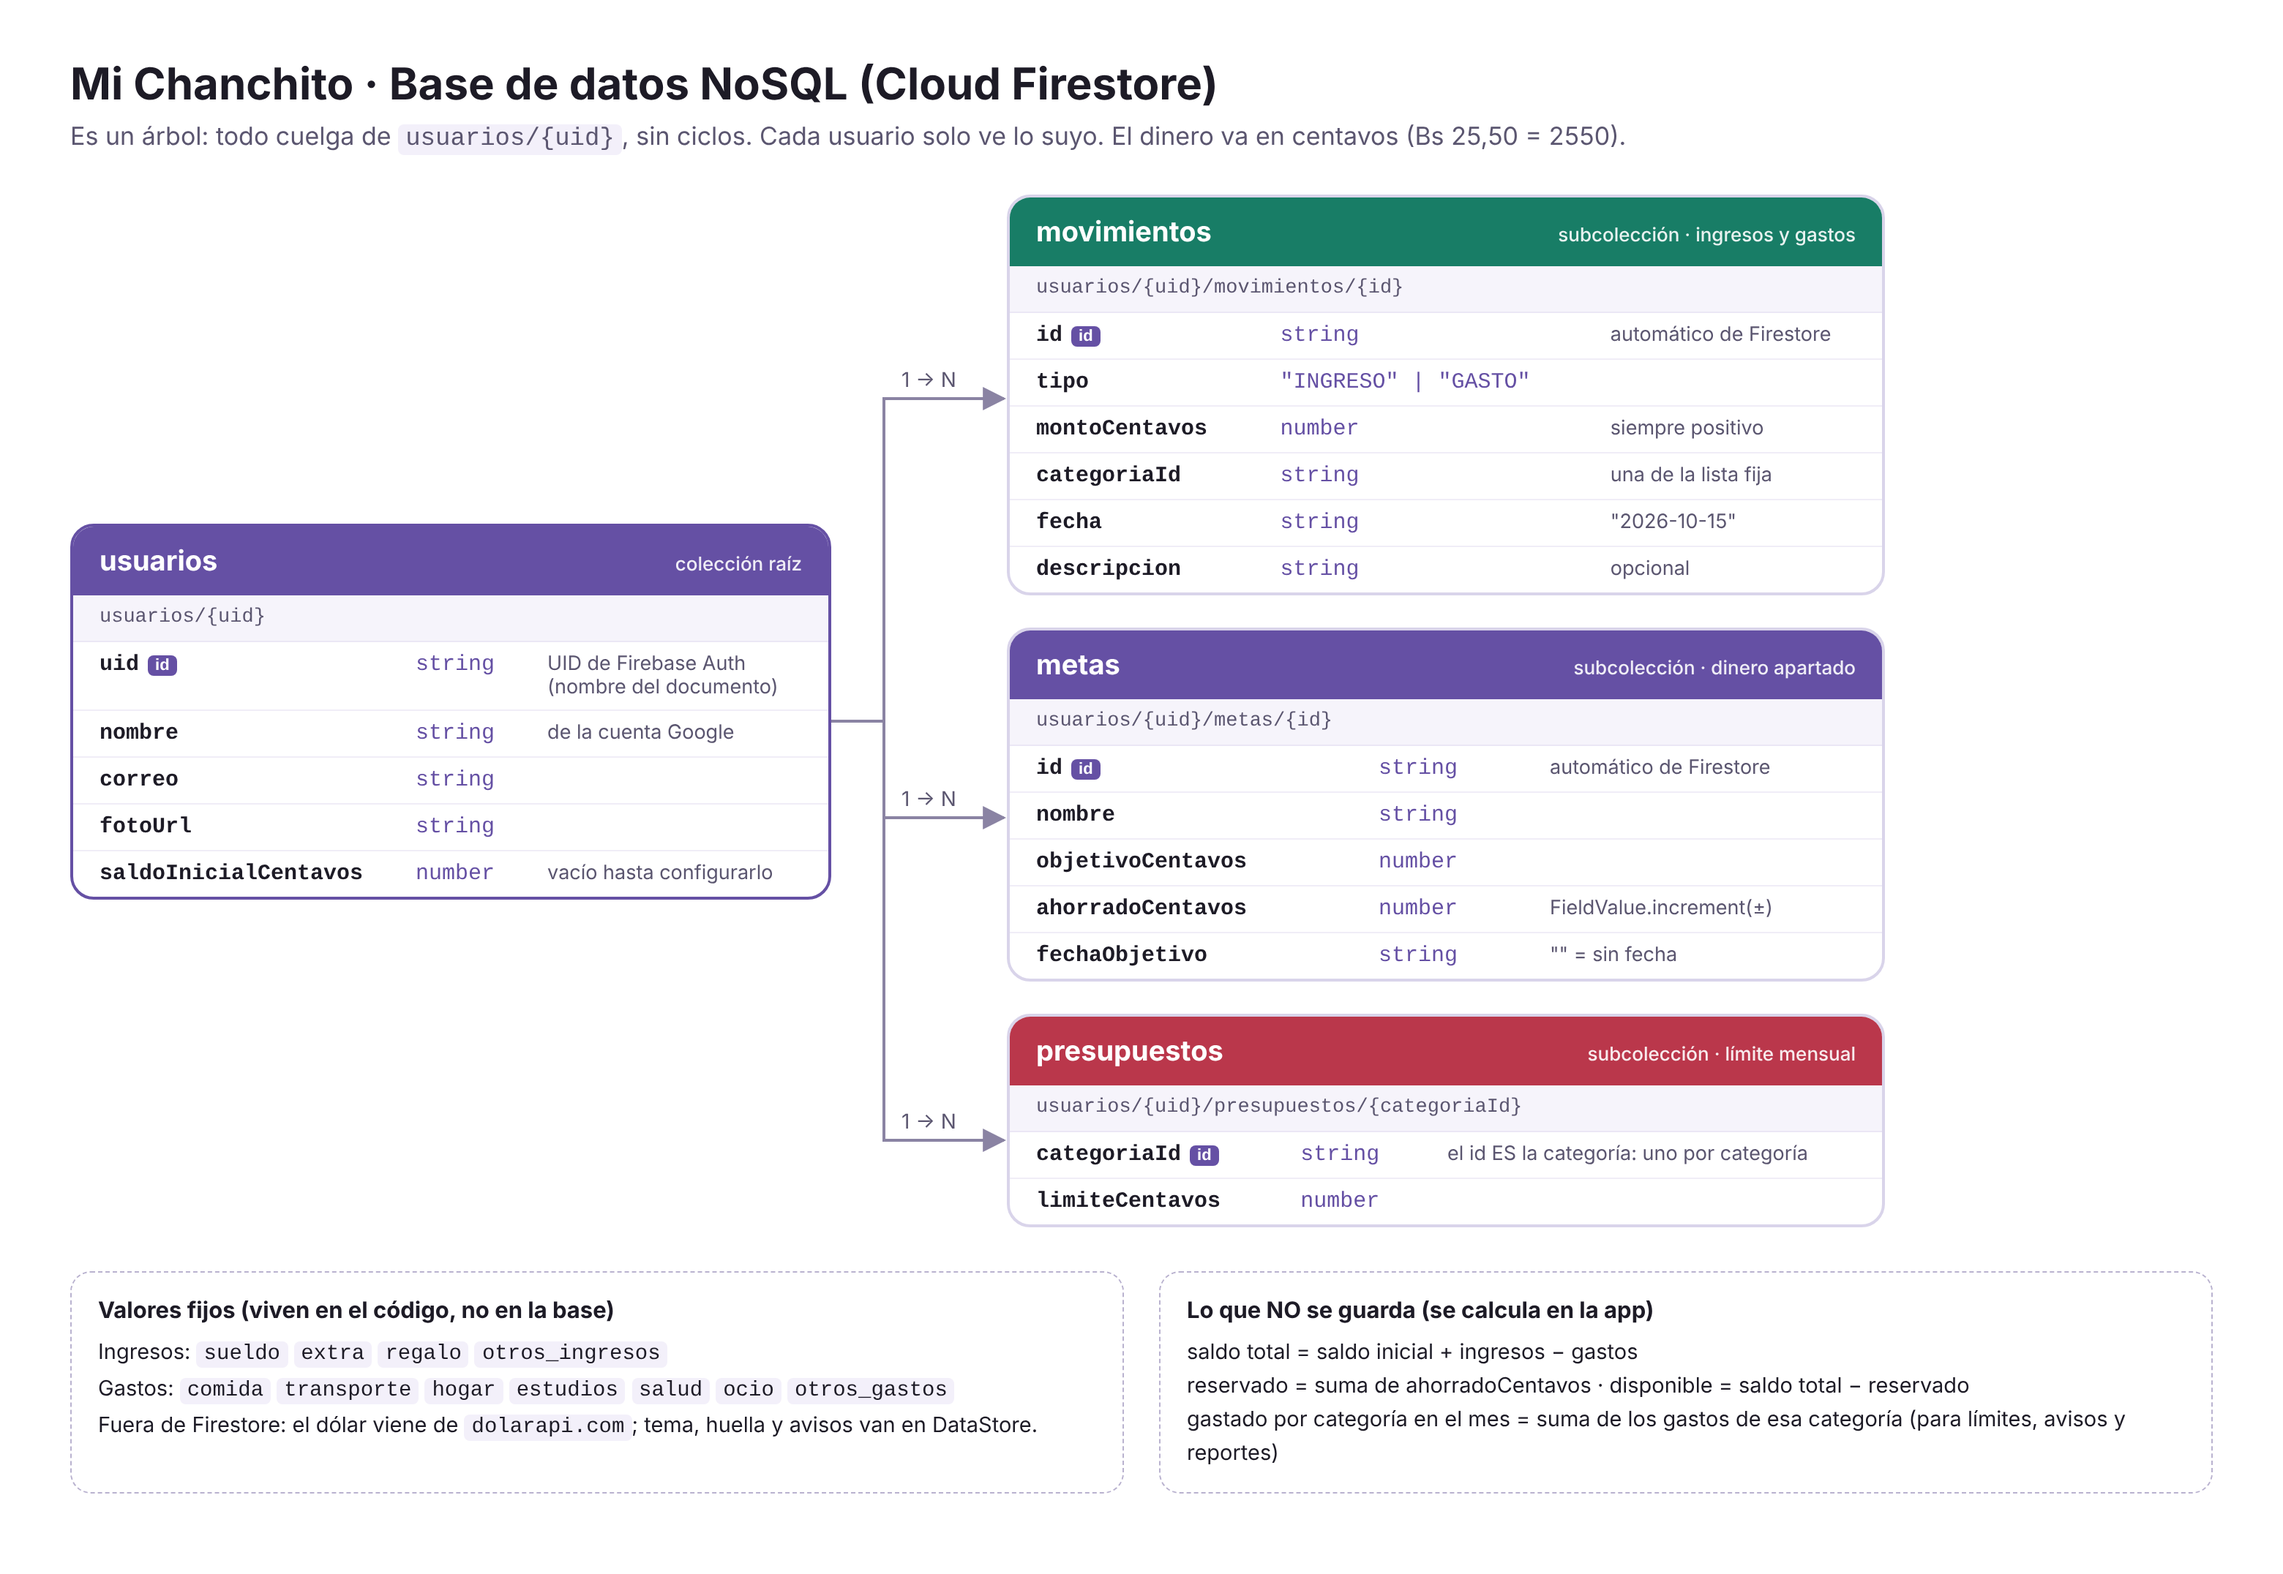
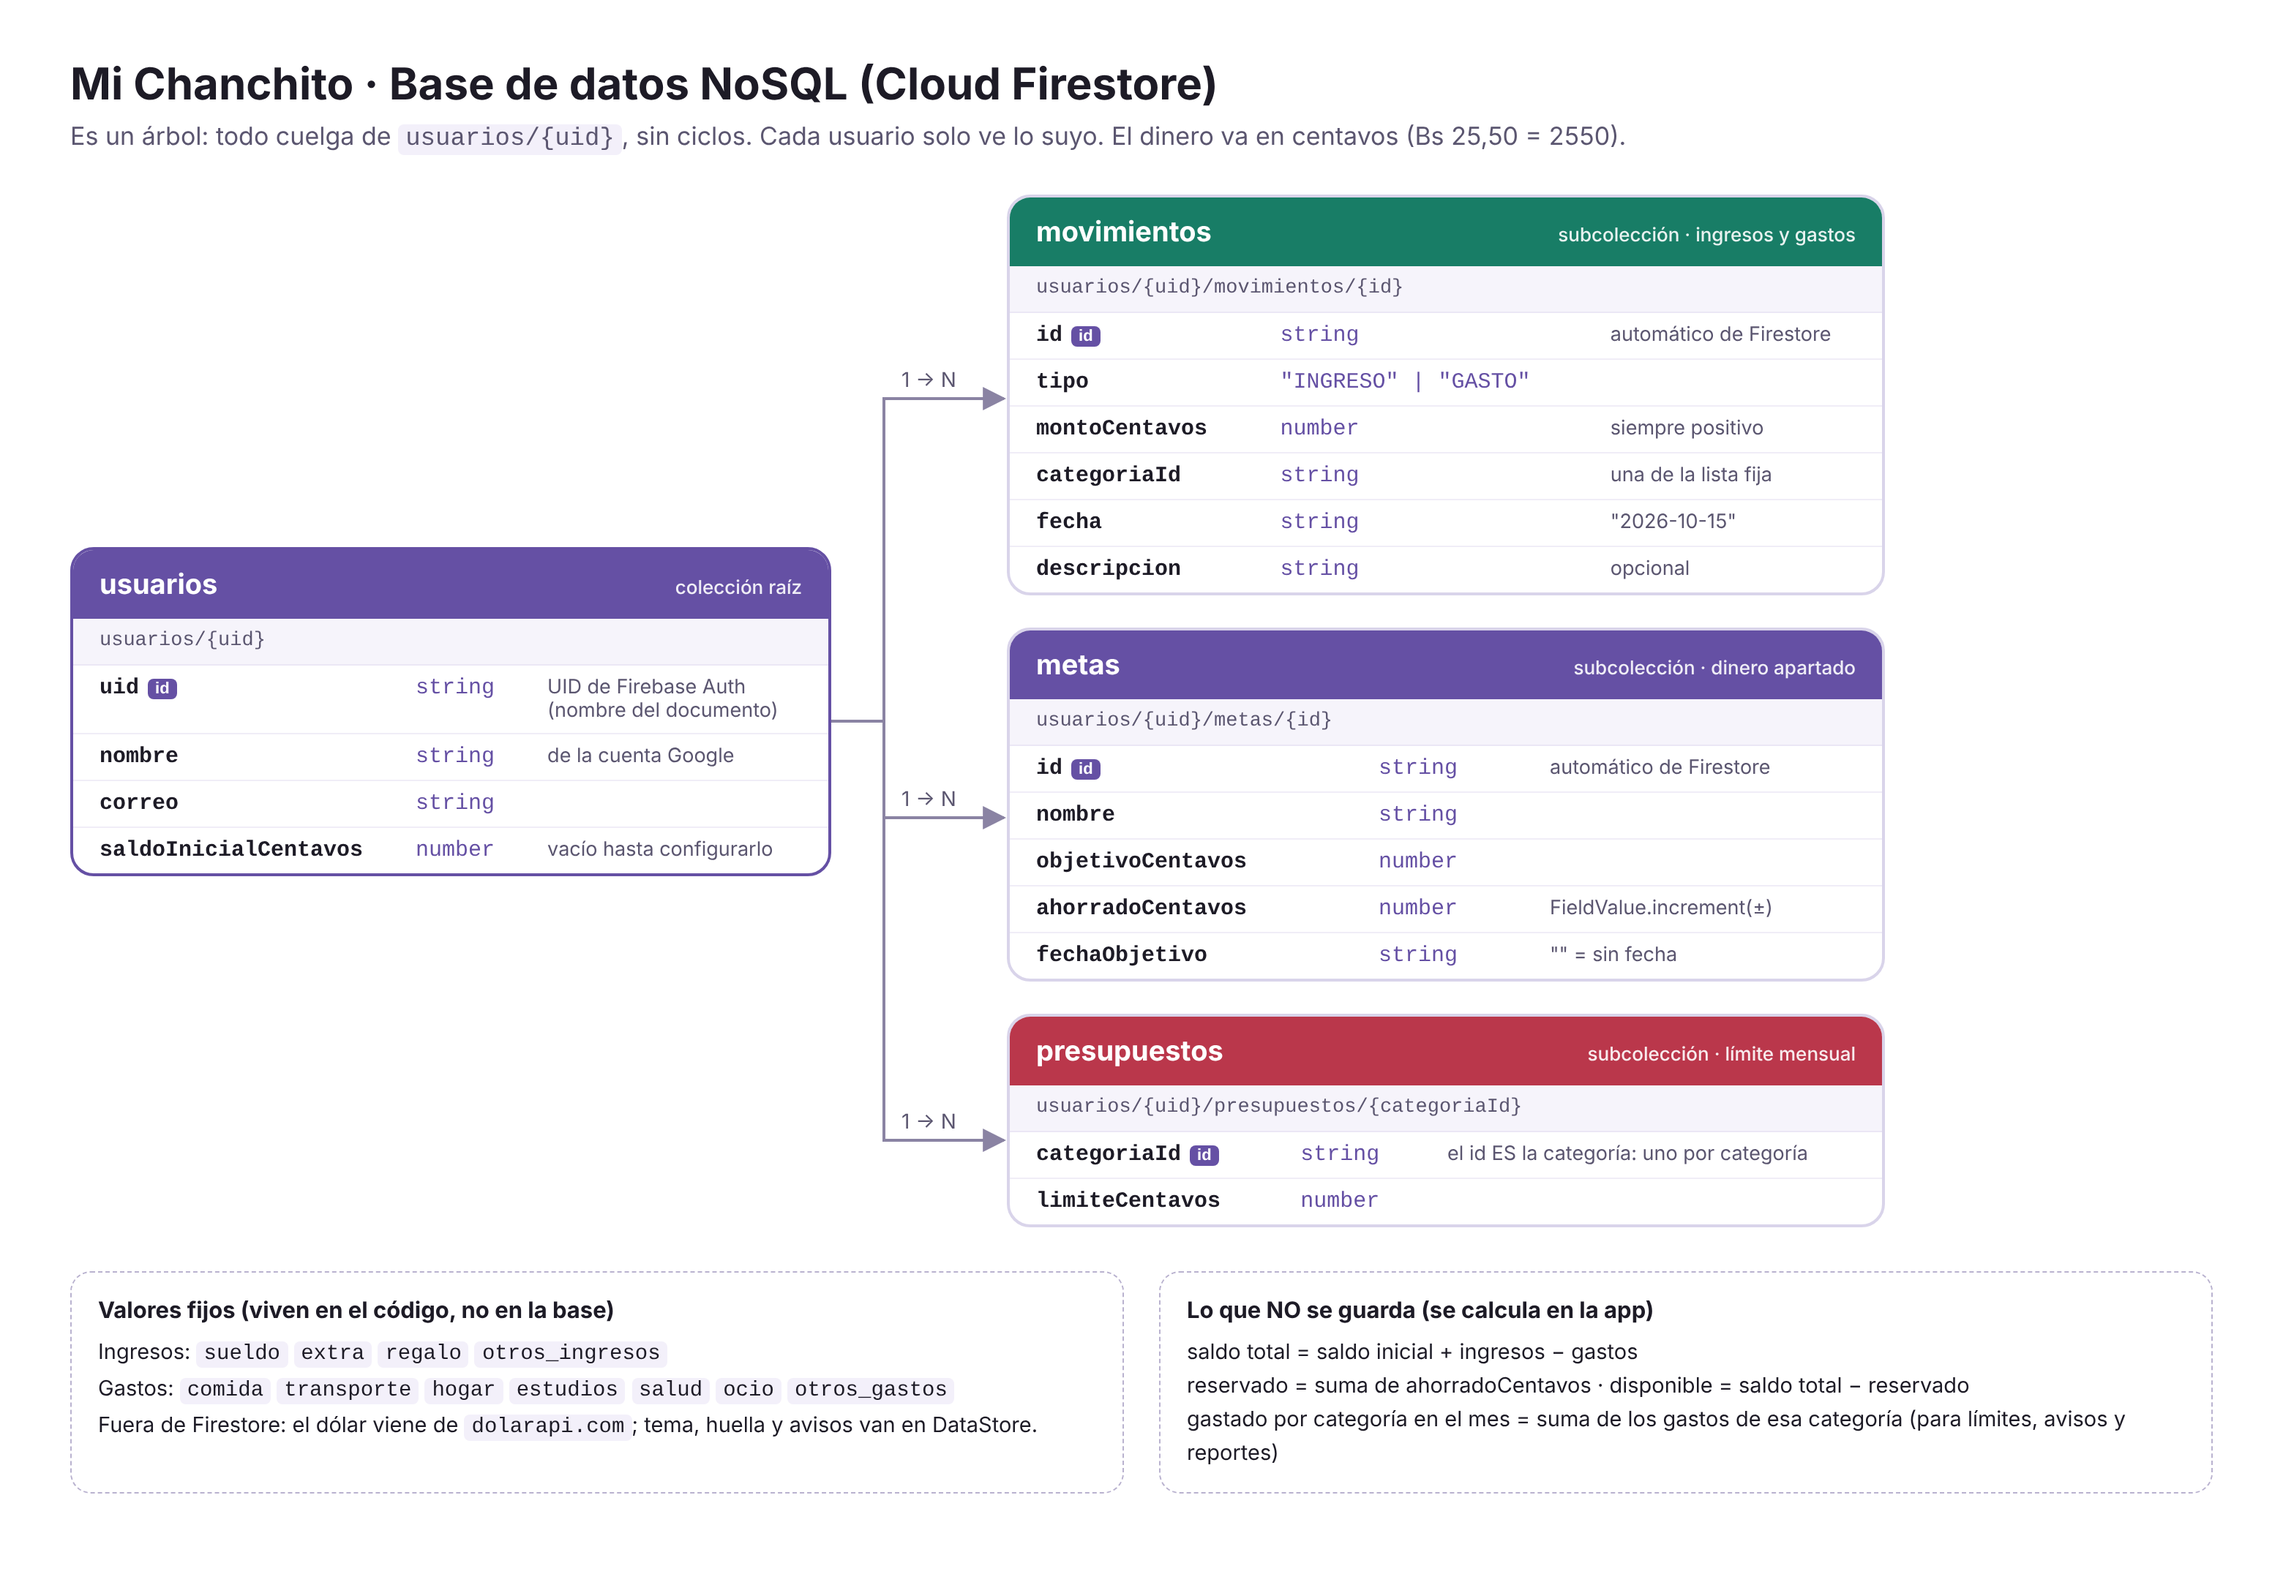
Simplificar modelos y limpiar dependencias sin uso
Elimina campos no usados (fotoUrl, nombre de cotizacion, urgente) y
dependencias de Compose tooling/lifecycle-runtime-ktx que no se usaban.

Changed region(s): [[0.0311, 0.3113, 0.3731, 0.5604]]

diff --git a/app/src/main/java/com/example/michanchito/domain/usecase/Avisos.kt b/app/src/main/java/com/example/michanchito/domain/usecase/Avisos.kt
@@ -7,11 +7,10 @@ import com.example.michanchito.domain.model.Presupuesto
 import java.time.LocalDate
 import java.time.YearMonth
 
-/** Un aviso: el título va en negrita (y como título de la notificación), el texto debajo. */
+/** Un aviso: el título (también es el título de la notificación) y el texto debajo. */
 data class Aviso(
     val titulo: String,
-    val texto: String,
-    val urgente: Boolean      // rojo en Inicio; en notificaciones no cambia nada
+    val texto: String
 )
 
 /*
@@ -38,13 +37,11 @@ object Avisos {
             when {
                 gastado >= limite.limiteCentavos -> Aviso(
                     titulo = "Te pasaste del límite de $nombre.",
-                    texto = "Llevas ${Dinero.formatear(gastado)} de ${Dinero.formatear(limite.limiteCentavos)}. $cierre",
-                    urgente = true
+                    texto = "Llevas ${Dinero.formatear(gastado)} de ${Dinero.formatear(limite.limiteCentavos)}. $cierre"
                 )
                 gastado * 100 >= limite.limiteCentavos * 80 -> Aviso(
                     titulo = "Ya usaste más del 80 % del límite de $nombre.",
-                    texto = "Te quedan ${Dinero.formatear(limite.limiteCentavos - gastado)}. $cierre",
-                    urgente = true
+                    texto = "Te quedan ${Dinero.formatear(limite.limiteCentavos - gastado)}. $cierre"
                 )
                 else -> null
             }

diff --git a/app/src/main/java/com/example/michanchito/data/api/DolarApi.kt b/app/src/main/java/com/example/michanchito/data/api/DolarApi.kt
@@ -22,9 +22,9 @@ import kotlin.math.roundToLong
  * Después lo traducimos a Cotizacion (domain), con los precios en centavos.
  */
 
-/** Tal cual llega de la API. "Dto" = objeto de transferencia de datos. */
+/** Lo que usamos de la respuesta de la API. "Dto" = objeto de transferencia de datos.
+ *  Gson ignora los campos del JSON que no están aquí (moneda, casa, nombre). */
 data class CotizacionDto(
-    val nombre: String? = null,
     val compra: Double? = null,
     val venta: Double? = null,
     val fechaActualizacion: String? = null
@@ -50,12 +50,11 @@ object DolarServicio {
 
     /** Pide las dos cotizaciones. Lanza excepción si no hay internet o la API falla: quien llama decide qué hacer. */
     suspend fun consultar(): Dolar = Dolar(
-        oficial = api.oficial().aCotizacion("Oficial"),
-        paralelo = api.binance().aCotizacion("Paralelo")
+        oficial = api.oficial().aCotizacion(),
+        paralelo = api.binance().aCotizacion()
     )
 
-    private fun CotizacionDto.aCotizacion(nombrePorDefecto: String) = Cotizacion(
-        nombre = nombre ?: nombrePorDefecto,
+    private fun CotizacionDto.aCotizacion() = Cotizacion(
         compraCentavos = ((compra ?: 0.0) * 100).roundToLong(),
         ventaCentavos = ((venta ?: 0.0) * 100).roundToLong(),
         fecha = (fechaActualizacion ?: "").take(10)   // "2026-10-15T00:00:00.000Z" -> "2026-10-15"

diff --git a/app/src/main/java/com/example/michanchito/data/repository/FinanzasRepositorio.kt b/app/src/main/java/com/example/michanchito/data/repository/FinanzasRepositorio.kt
@@ -20,7 +20,7 @@ import com.google.firebase.firestore.SetOptions
  * REPOSITORIO = el ÚNICO archivo que habla con Firestore.
  * Ni las pantallas ni los ViewModels usan FirebaseFirestore directamente.
  *
- *   usuarios/{uid}                        nombre, correo, fotoUrl, saldoInicialCentavos
+ *   usuarios/{uid}                        nombre, correo, saldoInicialCentavos
  *   usuarios/{uid}/movimientos/{id}       tipo, montoCentavos, categoriaId, fecha, descripcion
  *   usuarios/{uid}/metas/{id}             nombre, objetivoCentavos, ahorradoCentavos, fechaObjetivo
  *   usuarios/{uid}/presupuestos/{catId}   categoriaId, limiteCentavos
@@ -46,8 +46,7 @@ class FinanzasRepositorio(
     fun guardarDatosDeGoogle(usuarioGoogle: FirebaseUser) {
         val datos = mapOf(
             "nombre" to (usuarioGoogle.displayName ?: "Usuario"),
-            "correo" to (usuarioGoogle.email ?: ""),
-            "fotoUrl" to (usuarioGoogle.photoUrl?.toString() ?: "")
+            "correo" to (usuarioGoogle.email ?: "")
         )
         usuario.set(datos, SetOptions.merge()).addOnFailureListener { avisar("guardar tu perfil", it) }
     }

diff --git a/app/src/main/java/com/example/michanchito/presentation/ui/InicioScreen.kt b/app/src/main/java/com/example/michanchito/presentation/ui/InicioScreen.kt
@@ -66,7 +66,7 @@ fun InicioScreen(
         if (estado.disponible < 0) {
             item { Aviso("Tu disponible es negativo: gastaste dinero que tenías apartado en metas.", esError = true) }
         }
-        items(avisos) { aviso -> Aviso("${aviso.titulo} ${aviso.texto}", esError = aviso.urgente) }
+        items(avisos) { aviso -> Aviso("${aviso.titulo} ${aviso.texto}", esError = true) }
 
         item {
             Row(horizontalArrangement = Arrangement.spacedBy(12.dp)) {

diff --git a/app/src/main/java/com/example/michanchito/domain/model/Dolar.kt b/app/src/main/java/com/example/michanchito/domain/model/Dolar.kt
@@ -5,7 +5,6 @@ package com.example.michanchito.domain.model
  * Los precios también van en CENTAVOS: Bs 11,84 por dólar = 1184.
  */
 data class Cotizacion(
-    val nombre: String,        // "Oficial" (BCB) o "Binance" (paralelo)
     val compraCentavos: Long,  // a cuánto te compran tus dólares
     val ventaCentavos: Long,   // a cuánto te venden dólares
     val fecha: String          // fecha de actualización que entrega la API

diff --git a/app/src/main/java/com/example/michanchito/domain/model/Perfil.kt b/app/src/main/java/com/example/michanchito/domain/model/Perfil.kt
@@ -2,7 +2,7 @@ package com.example.michanchito.domain.model
 
 /*
  * Firestore: usuarios/{uid}
- *   { "nombre": "Mirko", "correo": "...", "fotoUrl": "...", "saldoInicialCentavos": 50000 }
+ *   { "nombre": "Mirko", "correo": "...", "saldoInicialCentavos": 50000 }
  *
  * saldoInicialCentavos = null  ->  todavía no configuró su saldo (mostramos esa pantalla).
  */

diff --git a/README.md b/README.md
@@ -5,7 +5,8 @@ App Android de **finanzas personales**, hecha con Kotlin y Jetpack Compose, para
 ![Kotlin](https://img.shields.io/badge/Kotlin-7F52FF?logo=kotlin&logoColor=white)
 ![Jetpack Compose](https://img.shields.io/badge/Jetpack%20Compose-4285F4?logo=jetpackcompose&logoColor=white)
 ![Firebase](https://img.shields.io/badge/Firebase-FFCA28?logo=firebase&logoColor=black)
-![Estado](https://img.shields.io/badge/estado-en%20desarrollo-yellow)
+![Android](https://img.shields.io/badge/Android-9%2B-3DDC84?logo=android&logoColor=white)
+![Estado](https://img.shields.io/badge/estado-en%20pruebas-yellow)
 
 ## Índice
 
@@ -63,16 +64,20 @@ com.example.michanchito
     └── ui/           Pantallas, diálogos, componentes y tema
 ```
 
+33 archivos Kotlin (unas 3.400 líneas), todo el código y los comentarios en español.
+
 ## Modelo de datos (Firestore)
 
-Diagrama en [`docs/diagramas/03_base-de-datos.png`](docs/diagramas). Para editarlo en [dbdiagram.io](https://dbdiagram.io) pega [`docs/base-de-datos.dbml`](docs/base-de-datos.dbml).
+Diagrama en [`docs/diagramas/03_base-de-datos.png`](docs/diagramas/03_base-de-datos.png). Para editarlo en [dbdiagram.io](https://dbdiagram.io) pega [`docs/base-de-datos.dbml`](docs/base-de-datos.dbml).
 
 ```
-usuarios/{uid}                        nombre, correo, fotoUrl, saldoInicialCentavos
+usuarios/{uid}                        nombre, correo, saldoInicialCentavos
 usuarios/{uid}/movimientos/{id}       tipo, montoCentavos, categoriaId, fecha, descripcion
 usuarios/{uid}/metas/{id}             nombre, objetivoCentavos, ahorradoCentavos, fechaObjetivo
 usuarios/{uid}/presupuestos/{catId}   categoriaId, limiteCentavos
 ```
+
+Es un árbol sin ciclos: todo cuelga de `usuarios/{uid}`, y una sola regla de seguridad ([`firestore.rules`](firestore.rules)) deja a cada usuario leer y escribir solo lo suyo.
 
 Todo el dinero se guarda en **centavos** (`Long`): Bs 25,50 = `2550`. Los saldos no se almacenan, se calculan:
 
@@ -82,11 +87,11 @@ reservado   = suma de lo ahorrado en las metas
 disponible  = saldo total − reservado
 ```
 
-El dólar no vive en la base de datos: se consulta a `bo.dolarapi.com`.
+Las 11 categorías son una lista fija en el código (`Categoria.kt`), las preferencias van en DataStore y el dólar no vive en la base de datos: se consulta a `bo.dolarapi.com`.
 
 ## Cómo compilar
 
-Necesitas tu propio `app/google-services.json` de Firebase (no se sube al repo por seguridad).
+Necesitas tu propio `app/google-services.json` de Firebase (no se sube al repo; está en `.gitignore`).
 
 1. En [Firebase Console](https://console.firebase.google.com) crea un proyecto → **Agregar app Android** con el paquete `com.michanchito.app` (el `applicationId` de `app/build.gradle.kts`).
 2. En la terminal del proyecto: `.\gradlew.bat signingReport` → copia el **SHA-1** de `Variant: debug` y agrégalo en Firebase (Configuración del proyecto → Tus apps → Agregar huella digital).
@@ -95,21 +100,23 @@ Necesitas tu propio `app/google-services.json` de Firebase (no se sube al repo p
 5. **Firestore Database** → Crear base de datos → modo **producción** → pestaña **Reglas** → pega el contenido de [`firestore.rules`](firestore.rules) → Publicar.
 6. En Android Studio: *Sync Project with Gradle Files* → ▶ Run.
 
+Requisitos: Android 9 (API 28) o superior.
+
 ## Pruebas
 
 ```bash
 .\gradlew.bat :app:testDebugUnitTest
 ```
 
-9 pruebas unitarias sobre la lógica de negocio (cálculos financieros, avisos, ahorro mensual, gráfico de 6 meses, dólar).
+9 pruebas unitarias sobre la lógica de negocio (cálculos financieros, avisos, ahorro mensual, gráfico de 6 meses, dólar). También se puede hacer clic derecho en `app/src/test` → *Run Tests*.
 
 ## Documentación y diagramas
 
-En [`docs/`](docs) hay documentos de avance (`AVANCE.md`), pruebas (`PRUEBAS_Y_DEMOS.md`) y 14 diagramas (casos de uso, arquitectura, Firestore, flujos y secuencias) en [`docs/diagramas/`](docs/diagramas), cada uno con su fuente `.mmd` (editable en [mermaid.live](https://mermaid.live)) y su `.png`.
+En [`docs/`](docs) están el avance del proyecto ([`AVANCE.md`](docs/AVANCE.md)), el plan de pruebas y la guía de presentación ([`PRUEBAS_Y_DEMOS.md`](docs/PRUEBAS_Y_DEMOS.md)) y 14 diagramas en [`docs/diagramas/`](docs/diagramas): casos de uso, arquitectura, base de datos, flujos y secuencias. Cada diagrama tiene su fuente `.mmd` (editable en [mermaid.live](https://mermaid.live)) y su `.png`.
 
 ## Estado del proyecto
 
-Proyecto académico en desarrollo activo (~85 % completado). Ver el detalle de avances y pendientes en [`docs/AVANCE.md`](docs/AVANCE.md).
+Proyecto académico en etapa de pruebas en el celular (~85 % completado). Ver el detalle de avances y pendientes en [`docs/AVANCE.md`](docs/AVANCE.md).
 
 ---
 

diff --git a/docs/AVANCE.md b/docs/AVANCE.md
@@ -80,6 +80,7 @@
 | Ícono de la app no adaptativo | Ícono adaptativo con el logo |
 | Verde y rojo poco legibles en tema oscuro (v2) | Colores semánticos en el `ColorScheme`, aclarados en oscuro |
 | Mi perfil no tenía flecha de regreso (v2, reportado por Mirko) | Barra superior con título de la pantalla y `navigationIcon` ← que hace `popBackStack()`; la pantalla se apila sobre la actual |
+| `Unresolved reference: icons` al compilar (reportado por Mirko, 16/10) | Agregada la dependencia `androidx.compose.material:material-icons-core` (Material 3 ya no la incluye) |
 
 ## 4. Qué falta para terminar (en orden)
 
@@ -102,7 +103,7 @@
 | Ofrecer "¿activar huella?" justo después del primer login | Baja | `AuthViewModel` + un `AlertDialog` en `AppNavigation` |
 | Pedir huella también al volver de segundo plano | Baja | Observar `ON_STOP` y poner `biometriaValidada = false` |
 | Editar nombre u objetivo de una meta | Baja | Un diálogo más + `update` en el repositorio |
-| Mostrar la foto de Google en Mi perfil | Baja | Ya se guarda `fotoUrl`; falta la librería Coil |
+| Mostrar la foto de Google en Mi perfil | Baja | Guardar `fotoUrl` en `usuarios/{uid}` y agregar la librería Coil para cargar la imagen |
 | Íconos vectoriales en la barra de pestañas | Baja | Ver `13_Diseno_UX_UI.md` |
 | Widget de pantalla de inicio con el disponible | Media | Glance |
 | Precios de referencia de la canasta familiar (curados desde el OAP) | Media | Ver `12_Ideas_de_mejora_y_APIs.md`, idea 9 |
